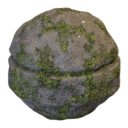
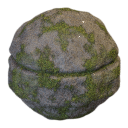
Creature Shader: moss texture 5 x finer, a Texture Scale slider for each colour layer
User: the moss was too big (one moss photo tile covered the whole body).
Tests: creature_shader 26/26.

Claude-Session: https://claude.ai/code/session_01XdnxL1YycLXr1UfC1nfNuX

diff --git a/mecha_lab/addon/mecha_lab/creature_shader.py b/mecha_lab/addon/mecha_lab/creature_shader.py
@@ -48,7 +48,9 @@ CMAPS = {
 # 0.24.95 (user: "베이스 컬러 쓰는 것들은 휴 · 세츄레이션 · 벨류로 조절하면 좋을 것 같으니까 슬라이드도"): the layers whose
 # colour can be a colour texture ('<layer>_tex': Flat = the colour swatch) and has Hue / Saturation / Value
 TEX_LAYERS = ('base', 'mud', 'dust', 'blood', 'blood_dry', 'slime', 'moss')
-TEX_TILES = {'base': 0.5, 'mud': 0.5, 'dust': 0.8, 'blood': 0.6, 'blood_dry': 0.6, 'slime': 0.6, 'moss': 0.6}
+# (tiles per unit on a creature 2 units tall; x the layer's own Scale.  0.24.95 user: "이끼 크기가 너무 커" - the moss
+#  photo's sprigs were as big as a leg at 0.6: 3.0)
+TEX_TILES = {'base': 0.5, 'mud': 0.5, 'dust': 0.8, 'blood': 0.6, 'blood_dry': 0.6, 'slime': 0.6, 'moss': 3.0}
 # the image nodes: name -> (creature map 'c' / Mech Shader map 'm', slot, id (None: from a setting), tiles per unit)
 IMAGES = {
     'skin': ('c', 'skin', None, 0.5), 'detail': ('c', 'skin', None, 1.5), 'mottle': ('c', 'mottle', None, 0.35),
@@ -82,11 +84,11 @@ BASE = dict(
     scars=0.0, scar_color=(0.72, 0.5, 0.45), fade=0.0,
     skin_map='PORES', detail_map='WRINKLES', mottle_map='BLOTCH')
 for _k in TEX_LAYERS:
-    BASE.update({_k + '_tex': 'FLAT', _k + '_hue': 0.0, _k + '_sat': 1.0, _k + '_val': 1.0})
+    BASE.update({_k + '_tex': 'FLAT', _k + '_hue': 0.0, _k + '_sat': 1.0, _k + '_val': 1.0, _k + '_scale': 1.0})
 COND_KEYS = ('mud', 'mud_top', 'mud_low', 'mud_color', 'mud_wet', 'mud_cake', 'h_mud', 'dust', 'dust_color', 'soot',
              'soot_color', 'snow', 'frost', 'moss', 'moss_color', 'h_moss', 'blood', 'blood_color', 'blood_dry',
              'blood_dry_color', 'slime', 'slime_color', 'wet', 'scars', 'scar_color', 'fade') + tuple(
-    k + sfx for k in TEX_LAYERS if k != 'base' for sfx in ('_tex', '_hue', '_sat', '_val'))
+    k + sfx for k in TEX_LAYERS if k != 'base' for sfx in ('_tex', '_hue', '_sat', '_val', '_scale'))
 SKIN_KEYS = tuple(k for k in BASE if k not in COND_KEYS and k not in ('polypaint', 'map_scale', 'bump', 'size'))
 SLIDERS = tuple(k for k in BASE if not k.endswith(('_map', '_tex')))
 
@@ -234,6 +236,8 @@ def build(mat):
             sc = b.math('MULTIPLY', sc, v['skin_scale'])
         elif name == 'mottle':
             sc = b.math('MULTIPLY', sc, v['mottle_scale'])
+        elif name.startswith('tex_'):                # (a colour texture: its layer's own Scale)
+            sc = b.math('MULTIPLY', sc, v[name[4:] + '_scale'])
         sc.node.name = 'mch:scale:' + name
         img[name] = b.image(name, b.vmath('SCALE', tc.outputs['Object'], fac=sc)).outputs['Color']
 
@@ -584,6 +588,9 @@ class MCH_PG_CreatureShader(bpy.types.PropertyGroup):
                                                      description=f'{_n}: 0 grey .. 1 as it is .. 2 stronger')
         __annotations__[_k + '_val'] = FloatProperty(name='Value', default=1.0, min=0.0, max=2.0, update=_update,
                                                      description=f'{_n}: darker .. 1 as it is .. brighter')
+        __annotations__[_k + '_scale'] = FloatProperty(name='Texture Scale', default=1.0, min=0.05, max=20.0,
+                                                       update=_update,
+                                                       description=f'{_n}: the texture repeated more (bigger = finer)')
     del _k, _n
     detail_map: EnumProperty(name='Detail Map', items=_maps('skin'), default=BASE['detail_map'], update=_update)
     mottle_map: EnumProperty(name='Mottle Map', items=_maps('mottle'), default=BASE['mottle_map'], update=_update)

diff --git a/mecha_lab/tests/test_v02495_creature_shader.py b/mecha_lab/tests/test_v02495_creature_shader.py
@@ -104,6 +104,13 @@ check('A colour texture for the skin (Scaly Keratin) and its Hue / Saturation / 
 check('... every colour layer has them (skin, mud, dust, blood, dried blood, slime, moss)',
       all(nodes.get('mch:hsv:' + k) is not None and nodes.get('mch:img:tex_' + k) is not None for k in cs.TEX_LAYERS)
       and all(hasattr(st, k + sfx) for k in cs.TEX_LAYERS for sfx in ('_tex', '_hue', '_sat', '_val')))
+sc_node = nodes['mch:scale:tex_moss']
+st.moss_scale = 2.0
+check('... and a Texture Scale each (user: "이끼 크기가 너무 커"): the moss texture finer by default (3 x the mud\'s '
+      'tiles per unit), its Scale multiplies it', cs.TEX_TILES['moss'] >= 3 * cs.TEX_TILES['mud']
+      and all(hasattr(st, k + '_scale') for k in cs.TEX_LAYERS) and sc_node.inputs[1].is_linked
+      and nodes['mch:moss_scale'].outputs[0].default_value == 2.0)
+st.moss_scale = 1.0
 st.base_tex = 'FLAT'
 check('... Flat: back to the colour swatch', nodes['mch:use_base'].outputs[0].default_value == 0.0
       and nodes['mch:img:tex_base'].image is None)
@@ -161,7 +168,7 @@ st.mud = 0.4
 its, h = page()
 props = {getattr(i, 'prop', '') for i in its}
 check('... a layer in use opens with its texture + Hue / Saturation / Value (Mud 0.4)',
-      {'mud', 'mud_tex', 'mud_color', 'mud_hue', 'mud_sat', 'mud_val', 'mud_cake'} <= props)
+      {'mud', 'mud_tex', 'mud_color', 'mud_hue', 'mud_sat', 'mud_val', 'mud_scale', 'mud_cake'} <= props)
 cube_ob = bpy.data.objects.new('Plain', bpy.data.meshes.new('plain'))
 C.scene.collection.objects.link(cube_ob)
 bpy.ops.mesh.primitive_cube_add(location=(0, -8, 0))

diff --git a/mecha_lab/addon/mecha_lab/mech_shader_ui.py b/mecha_lab/addon/mecha_lab/mech_shader_ui.py
@@ -327,12 +327,13 @@ def _cstep(b, st, prop, x, w, label=''):
 
 
 def _colour_rows(b, st, layer, flat, sx, sw):
-    """A layer's colour: its texture (◀ [Flat / a texture] ▶), its swatch, Hue / Saturation / Value."""
+    """A layer's colour: its texture (◀ [Flat / a texture] ▶), its swatch, Hue / Saturation / Value, its size."""
     _cstep(b, st, layer + '_tex', sx, sw, 'Texture')
     if flat:
         row(b, sx, sw, [prop_cell(st, flat)])
     row(b, sx, sw, [number(st, layer + '_hue', 'Hue'), number(st, layer + '_sat', 'Sat'),
                     number(st, layer + '_val', 'Val')])
+    row(b, sx, sw, [number(st, layer + '_scale', 'Texture Scale')])     # (0.24.95 user: "이끼 크기가 너무 커")
 
 
 # (section key, title, the amounts that make it "in use", its rows: a property, ('tex', layer, swatch) or ('sub', text))

diff --git a/mecha_lab/CHANGELOG.md b/mecha_lab/CHANGELOG.md
@@ -78,6 +78,7 @@
   5. **속도**: 엣지 기억의 '선 BVH'를 numpy 로 한 번에(선마다 np.cross 를 부르던 것이 28번 컷 스트레스 테스트에서 18 s).
   남은 것: 시드 226(Box Hide Apply 가 같은 면을 겹쳐 만들어 면 3개 엣지 1개 - 1,000개 중 1건), Divide 3.0 ~ 3.8 % 몇 개(기준 3 % 근처), Bevel 폭이 모자랄 때 대신 쓰는 GN 띠(`rim_sweep`)가 20 s 를 쓰고도 아무것도 못 만드는 경우(스트레스 테스트 24 · 27단계). 테스트: test_v02495_combo_fixes 21(위 시드 5개를 각자 Blender 에서 다시 돌림), 관련 25개 파일 통과.
 - **Base Mesh Bevel 단면을 Divide 하면 옆면이 뜨던 것**(사용자: bevel.fbx, "베벨로 된 거 내가 디바이드 하면 이렇게 옆면이 떠 - 이런 종류로 또 테스트 해 봐"): 보내 준 Bake HP 결과(7.6만 면)에 100° 넘게 접힌 엣지 1,282개가 위 · 아래 테두리를 따라 있었음. 원인: Base Mesh 의 Bevel 단면은 뚜껑을 n 번 안으로 밀어(inset) 줄을 만드는데, 줄이 뚜껑 · 벽과 만나는 경계는 45/n°, 줄끼리는 90/n° - 엣지 기억이 각도(30°)만 봐서 2단 베벨이면 **경계(22.5°)는 표시 없음, 가운데 줄(45°)만 표시**. 그래서 Divide 가 평평한 옆면을 베벨과 함께 둥글려 옆면이 부풀고, 표시된 줄에서 접힘. 고침: (1) Base Mesh 가 단면의 줄 면을 직접 알려 주고(`.mch_pband` / `.mch_prow`, 표시 후 지움), 띠의 **경계는 선**, 줄끼리는 **부드럽게**(새 `edge_memory.SOFT` - Bake High Poly 의 각도 규칙도 이것은 단단하게 안 봄); (2) 외곽이 날카롭게 꺾이는 곳(30° 넘게)의 띠 이음새는 벽 모서리에서 뚜껑 모서리까지 **한 줄 전체가 선**(뚜껑 쪽 일부만 부드러우면 선이 중간에 끊겨 Divide 가 모서리를 뒤집음: 3단 베벨에서 424면), 완만한 곡선 외곽의 이음새는 부드럽게. 측정(무작위 외곽 24개 - 날카로운 다각형 · 곡선, Bevel 1 ~ 6단 · Chamfer, 위 / 위아래): Bake HP Divide 면이 부품 표면 반대로 뒤집힌 부품 4개(81면) → 0, 2 % 넘게 벗어난 부품 9 → 6, 최대 3.29 → 2.97 %; ZBrush 흉내(폴리그룹 크리즈 + Divide) 2 % 초과 12 → 5, 최대 9.48 → 2.97 %. 직사각형 + 3 · 4단 베벨 0.60 / 0.61 → 0.28 / 0.21 %. 렌더 `dist/bevel_divide_before_after_0.24.95.png`(왼쪽 로우 + 표시 빨강, 가운데 전, 오른쪽 후; 아래 줄 옆면 확대). 주의: 이미 만들어진 부품은 예전 표시 그대로 - 라이브 Base Mesh 는 설정을 바꾸거나 Apply to Parts 로 다시 만들면 새 규칙. 테스트: 새 test_v02495_bevel_profile 9, Base Mesh · Bake HP · 엣지 관련 46개 파일 통과.
+- **Creature Shader 이끼 크기 + 텍스처 크기 슬라이더**(사용자: "이끼 크기가 너무 커"): 이끼 색 텍스처(Green Moss 등)가 크리쳐 몸 기준 단위당 0.6 장이라 타일 하나가 몸통을 덮어 잎이 다리만큼 컸음 → 3.0 장(5 배 잘게). 색 텍스처가 있는 7 층(피부 · 진흙 · 먼지 · 생피 · 마른 피 · 점액 · 이끼)마다 **Texture Scale** 슬라이더(Hue / Sat / Val 아래, 클수록 잘게; 상태 프리셋을 바꾸면 1 로). 이끼가 덮는 자리(패치 모양)는 그대로. 이끼 상태 다시 렌더(전 / 새 기본 / Scale 2) + 아이콘 ccond_MOSSY 다시 그림. 테스트 test_v02495_creature_shader 26(Texture Scale 1 개 더) 통과.
 - **Creature Shader (크리쳐 재질, 첫 버전)**(사용자: "크리쳐 전용으로 - 베이스 컬러랑 스컬핑은 내가 해 놓으니까 지저분한 진흙이나 더스트, SSS 마스크 그런 거", "지브러시에서 수정 파일 가져오면 마스크를 다시 칠해야 했어", 정해 둔 목록: 피부 종류 14 + 상태 12, "크리쳐 쉐이더 결과물 좀 보여 줘"): 새 `creature_shader.py`. **바탕색 = 폴리페인트**(메시의 색 속성 - ZBrush 폴리페인트가 FBX / OBJ 로 들어온 것; 있으면 Polypaint 1 로 자동), 없으면 Base Color(또는 색 텍스처) + Mottle 무늬. **모양에서 계산**(손으로 칠할 것 없음): 틈 / 돌기(Mech Shader 와 같은 `mch_curv`, 촘촘한 조각에서도 잡힘 + AO), 위를 보는 면, 몸 아래쪽(발), 얇은 곳(Cycles 안쪽 AO - 귀 · 날개에 SSS 더). **층**: 틈 어둡게 / 돌기 밝게, 진흙(틈 · 위 · 아래, 젖음, 갈라짐), 먼지, 그을음, 눈, 서리(틈), 이끼, 생피, 마른 피, 점액, 젖음, 흉터, 부패, 바램, 틈 발광(용암 · 외계), SSS(양 · 색 · 거리 · 얇은 곳 더), 무지개빛(thin film), 클리어코트. **피부 요철**: 사용자 크리쳐 맵(Relief 12 + Detail) 범프. **크기 맞춤**: 적용할 때 크리쳐 크기(가장 긴 변 / 2)를 재서 맵 · SSS · 틈 거리가 어떤 크기의 크리쳐에서도 같게(작은 원숭이 머리 처음 렌더에서 비늘이 너무 잘아 안 보여 고침; 범프도 크기 비례로 키움). **프리셋 두 종류**: Skin Types 14(Human · Reptile Dry · Snake Glossy · Amphibian Wet · Thick Hide · Dragon Scales · Insect Chitin · Membrane / Wing · Slime / Alien · Shark / Fish · Smooth Rubber · Undead / Rot · Demon / Lava · Bone / Horn / Claw) - 상태는 그대로 두고 피부만; Conditions 12(Clean · Dusty · Swamp Feet · Mud Caked · Rain Wet · Slimy · Bloody · Desert Dry · Snow / Frost · Old / Weathered · Sooty / Burnt · Moss / Algae) - 피부는 그대로 두고 위 층만. **사용자 색 텍스처 20장**(사용자: "내가 챗지피티로 뽑아 온 베이스 컬러들, 적용해 봐", 1254 px, "심리스 검증 안 됨"): `import_photo_maps.py --creature-color` 로 이음 메움(`heal_tile`, 이음 점프 1.6 ~ 3.0 → 0.94 ~ 1.29, 교차점 원본 해상도로 확인) → `creature_maps/color/` 1024 px, 색은 그대로. 피부 · 진흙 · 먼지 · 생피 · 마른 피 · 점액 · 이끼 7 층마다 **Texture**(Flat = 색 견본 / 20장 중 하나) + **Hue / Saturation / Value** 슬라이더(사용자: "휴 · 세츄레이션 · 벨류로 조절하면 좋을 것 같으니까 슬라이드도") - 피부의 HSV 는 폴리페인트에도 걸림(전체 색을 한 곳에서). 상태 프리셋이 맞는 텍스처를 고름(Swamp Feet: Wet Mud + Algae Film, Mud Caked · Desert: Cracked Mud, Dusty: Pale Dust, Bloody: Fresh + Dried Blood, Slimy: Green Slime, Moss: Green Moss). **손 마스크 준비**: 셰이더가 점 속성 `mch_cm_<층>`(mud · dust · soot · snow · moss · blood · slime · wet · sss · glow)을 읽어 칠한 곳에 그 층을 더함 - 칠하는 도구와 Transfer from Old 는 다음 단계. **사이드 패널 Material 페이지**: Creature 재질이면 그 페이지(◀ 피부 종류 ▶, Unlink / New Copy / Edges, Skin Types · Conditions 공 아이콘 26, Color · Skin · SSS · Crevices & Ridges · 층별 섹션 - 쓰는 층은 열린 채, Height & Detail, Switch to Mech Shader); 재질이 없거나 Mech 재질이면 "Creature Shader" 섹션의 피부 공을 누르면 적용. Unlink 는 Creature 재질에도. 아이콘 26장(`make_mech_preset_icons.py creature`, 울퉁불퉁 + 접힌 공, 상태는 Thick Hide 위). 결과 렌더 `tools_dev/make_creature_preview.py`(원숭이 머리: 와이어프레임 + 피부 14 + 폴리페인트 위 상태 12 + 텍스처 / HSV 예 5). 테스트: 새 test_v02495_creature_shader 25, material_page 46(메카 공만 세게 고침), mech_shader 46, mech_unlink 9 - 하나씩 실행 통과. 실제 블렌더 창에서 패널을 눌러 보는 것은 아직 안 함.
 - **사이파이 재질 20개(사용자가 GPT 로 뽑아 온 Base Color 20 + Roughness 20, "SciFi_Base_Roughness_40")**(사용자: "우리 기존 메테리얼 탭에 넣을 베이스 컬러랑 러프니스도 추가로 좀 뽑아 왔어"): 팩은 1254 px, 가짜 이음 띠 없음(가장자리 결이 가운데와 같음), 이음 점프 1.1 ~ 3.3(Aramid 가 가장 큼 - 짜임이 어긋남, Microhex 육각 · Titanium 러프니스도 선이 보임). **넣은 방법**(`tools_dev/import_photo_maps.py --scifi`): 40장 모두 `heal_tile` 로 이음을 메움(이번에 색 맵도 되게 - 밝기로 맞는 곳을 찾고 세 채널을 같은 길로 자름; 크리쳐 맵은 바이트까지 같은 결과 확인) → 1024 px. **Base**: 각 채널을 평균 0.5 로 맞춰 맵에서 색을 빼고(셰이더가 색 × 맵 × 2) 결 · 색 얼룩은 남김 → 재질 색은 프리셋의 Base Color 로 (그래서 색을 바꾸면 결은 그대로 색만 바뀜); 밝은 반점이 잘릴 맵은 조금 어둡게 두고 프리셋 색으로 보정. 결에서 높이 맵(페인트 결은 약하게, Heat Titanium 의 색 무늬는 거의 안 쓰게). **Roughness**: 평균 0.5 로 옮기고 대비 그대로 → 프리셋 Roughness = 맵 평균, Roughness Map 1(만든 대비 그대로). Base · Roughness 맵 목록 10 → 30(새 것은 뒤에 붙임 - 저장된 파일의 맵 · 프리셋 순서 그대로). **새 프리셋 20개**(프리셋 35 → 55, 구 아이콘 포함): 도장류는 금속 위 Paint(Paint Pattern 1 - 맵이 페인트에 보임, 엣지 마모를 켜면 금속이 드러남): Gunmetal Cerakote · Ivory Ceramic · Naval Blue Enamel · Military Olive · Oxide Red Paint · Industrial Yellow · Arctic White; 금속: Titanium Satin · Nickel Alloy · Heat Titanium · Oxidized Copper · Alien Biometal; 비금속 복합재: Carbon Twill · Forged Carbon(클리어코트) · Aramid Weave · Black Elastomer · Thermal Ceramic · Ablative Composite · Microhex Composite · Titanium Cermet(금속 0.3). 색 · 러프니스는 맵 평균값에서 그대로(우리 셰이더의 기존 보정과 같은 방식 - 다른 프리셋과 같은 조명에서 같은 밝기 관계). 엣지 마모 · 흙 등은 0(깨끗한 재질 - Edge Wear 프리셋을 위에 얹어 씀). 맵 21 MB 추가(mech_maps 30 → 51 MB, zip 도 그만큼). 테스트: 새 test_v02495_scifi_maps 11(옛 순서 유지 · 파일 · 맵 평균 · 40장 이음 < 1.7 · 1024 px · 프리셋 3종이 자기 맵 · 색 · 러프니스를 노드에 · ▶ 로 새 20개 차례 · 아이콘), test_v02495_mech_shader 46(맵 수 30 으로), material_page 46, mech_unlink 9, hdri_previews 9 - 하나씩 실행 통과. 아이콘 20장은 Cycles 128 px 로 그림(재질 탭 미리 보기용); 실제 블렌더 창에서 새 프리셋을 눌러 본 것은 아직 안 함.
 - **크리쳐 맵 28장(사용자가 GPT 로 고화질로 바꿔 온 팩 "Creature_Hyperreal_28maps_2048")**(사용자: "확인해 봐"): 품질 - 2048 px 흑백, 이름 · 폴더가 우리 목록과 맞음, 피부 맵은 사진 수준. **문제**: "seamless" 라고 되어 있지만 각 변의 바깥 약 150 px 를 밀고 섞어 가장 바깥 한 픽셀만 맞춘 가짜 이음 → 반복하면 선이 보임(가장자리 점프가 보통 한 칸 차이의 6.6 ~ 49.4 배; 1 이면 이어짐). 처음 고친 방법(가장자리를 반 칸 민 그림으로 바꿈)은 이음은 맞았지만 **한 장 안에 무늬가 두 번씩** 나옴 - 2×2 로 깔아 보고 발견해서 버림. **고침**(`tools_dev/import_photo_maps.py` 의 `heal_tile`): 가장자리 160 px 를 잘라냄(가짜 띠) → 반 칸 밀어 이음선을 가운데 열 · 행으로 모음 → 그 두 줄을 같은 그림의 다른 곳에서 가져온 조각으로 덮음: 조각마다 주변(양옆 원본 · 앞 조각)과 가장 잘 맞는 곳을 찾고(반 크기에서 찾은 뒤 픽셀 단위로), 겹치는 띠에서 차이가 가장 작은 길로 잘라 붙임(섞지 않으니 겹쳐 보이지 않음; 자른 길이 창 가장자리에 붙어 직선이 되지 않게; 가로 줄은 세로 줄 가운데를 건너뜀 - 거기는 세로 줄 조각이 이미 이어 줌). 이음선 둘레 약 270 px 띠만 바뀌고 나머지는 원본 그대로. 피부(높이) 맵과 부드러운 마스크(Bruise · Blood Dry)는 먼저 큰 명암을 가장자리에서 맞추고(periodic + smooth 분해) 조각 밝기도 주변에 맞춤; 흑백 마스크는 회색이 생기지 않게 작은 차이로만 (최대 0.15). 결과 1728 px, 가장자리 점프 0.96 ~ 2.9(그림 안 보통 줄들의 범위 안), 반 칸 자기상관 -0.33 ~ 0.27(두 번 나옴 없음). **눈으로 본 것**: 28장 2×2 반복 · 이음선 교차점 원본 해상도 - 대부분 안 보임; 남은 흔적: Slime(세로 줄 무늬 결이 조각마다 달라 네모 영역이 약간), Snake 비늘 끝 몇 개 어긋남, Blood 작은 모서리 하나, Bruise 의 위 · 아래 이음 근처 작은 자국. **원본 자체 문제(못 고침)**: Horn · Wrinkles 에 가는 가로 줄무늬(업스케일 흔적), 원본 가운데(1024 px 줄)에 약한 이음(4 조각으로 키운 흔적으로 보임, 보통의 약 1.8 배 - 눈에는 잘 안 띔), Hide · Scutes · Rot 는 큰 명암 덩어리가 있어 넓게 깔면 반복이 보일 수 있음. 아직 셰이더에 연결 안 함(Creature Shader 만들 때 씀). `addon/mecha_lab/creature_maps/<skin|mottle|organic>/<ID>.jpg` 13 MB(zip 도 그만큼 커짐).
